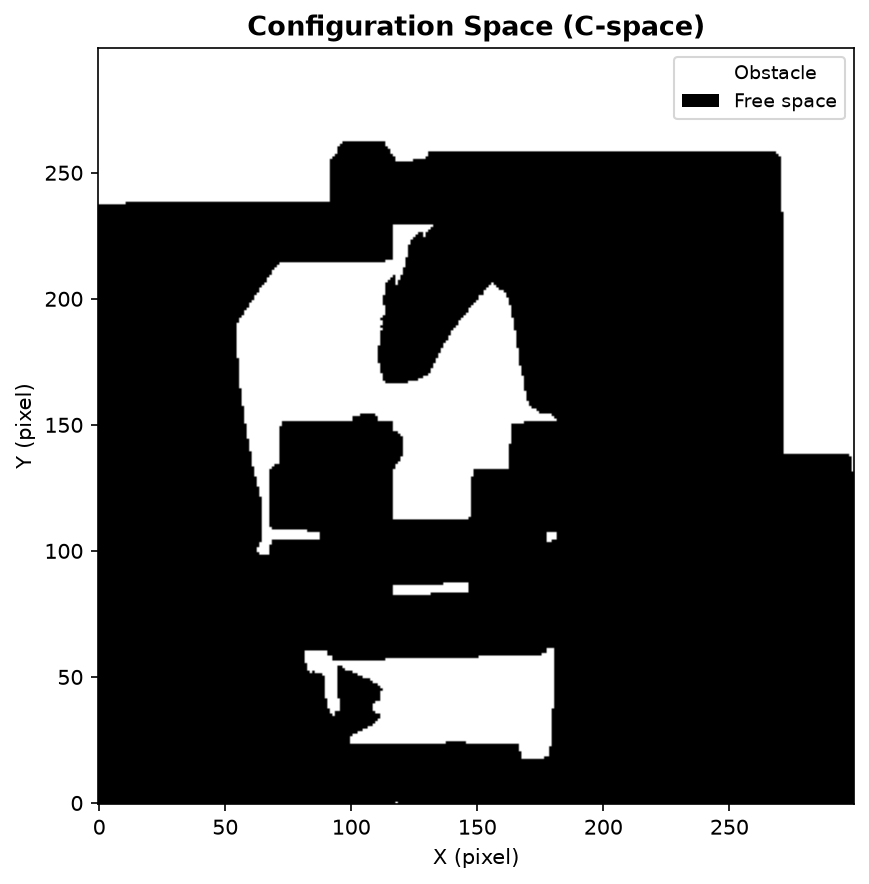
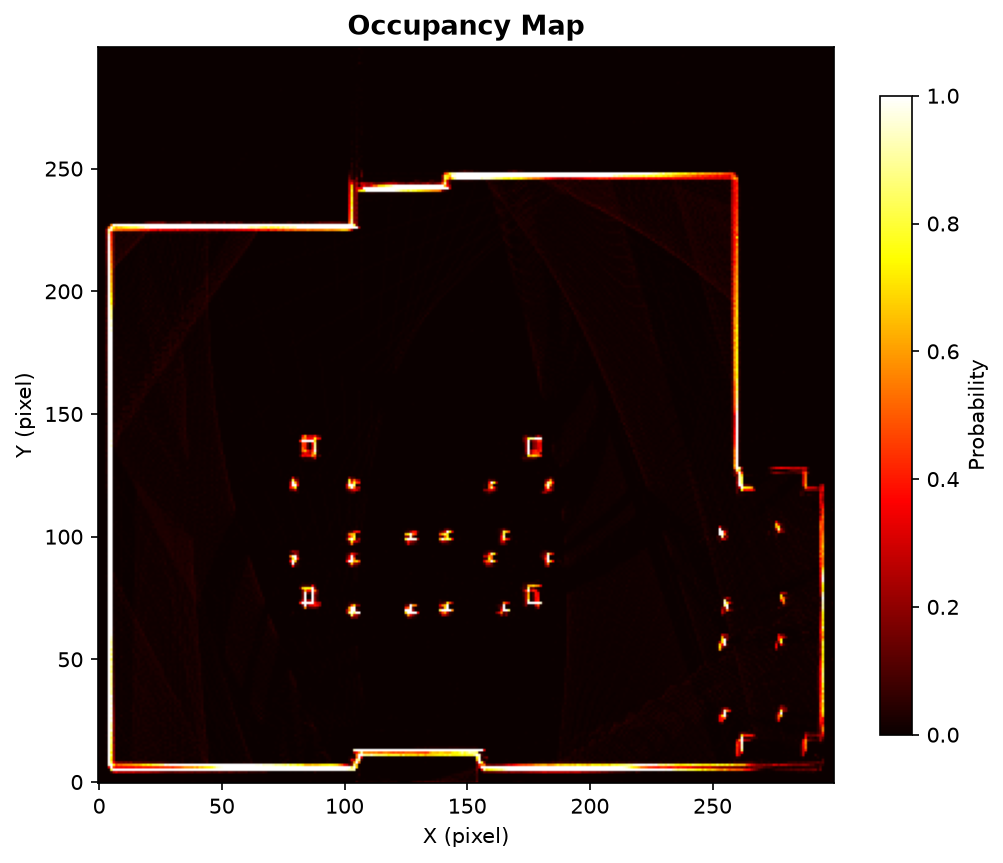
Keep only occupancy map, remove C-space

diff --git a/README.md b/README.md
@@ -36,7 +36,7 @@ This project implements a complete autonomous manipulation pipeline for the **PA
 
 1. **Mapping** — the robot explores the kitchen environment with a Hokuyo LiDAR, building a probabilistic occupancy grid that is convolved into a configuration-space (C-space) map and saved to disk.
 
-   ![C-Space Map](docs/cspace_map.png)
+   ![Occupancy Map](docs/cspace_map.png)
 2. **Navigation** — A\* pathfinding on the saved C-space, with line-of-sight path simplification, feeds a proportional wheel controller.
 3. **Manipulation** — `ikpy` solves the 7-DOF arm inverse kinematics; gripper force feedback verifies successful grasps.
 4. **Behaviour Tree** — `py_trees` orchestrates the full mission: init → map → return home → handle jar × 3.